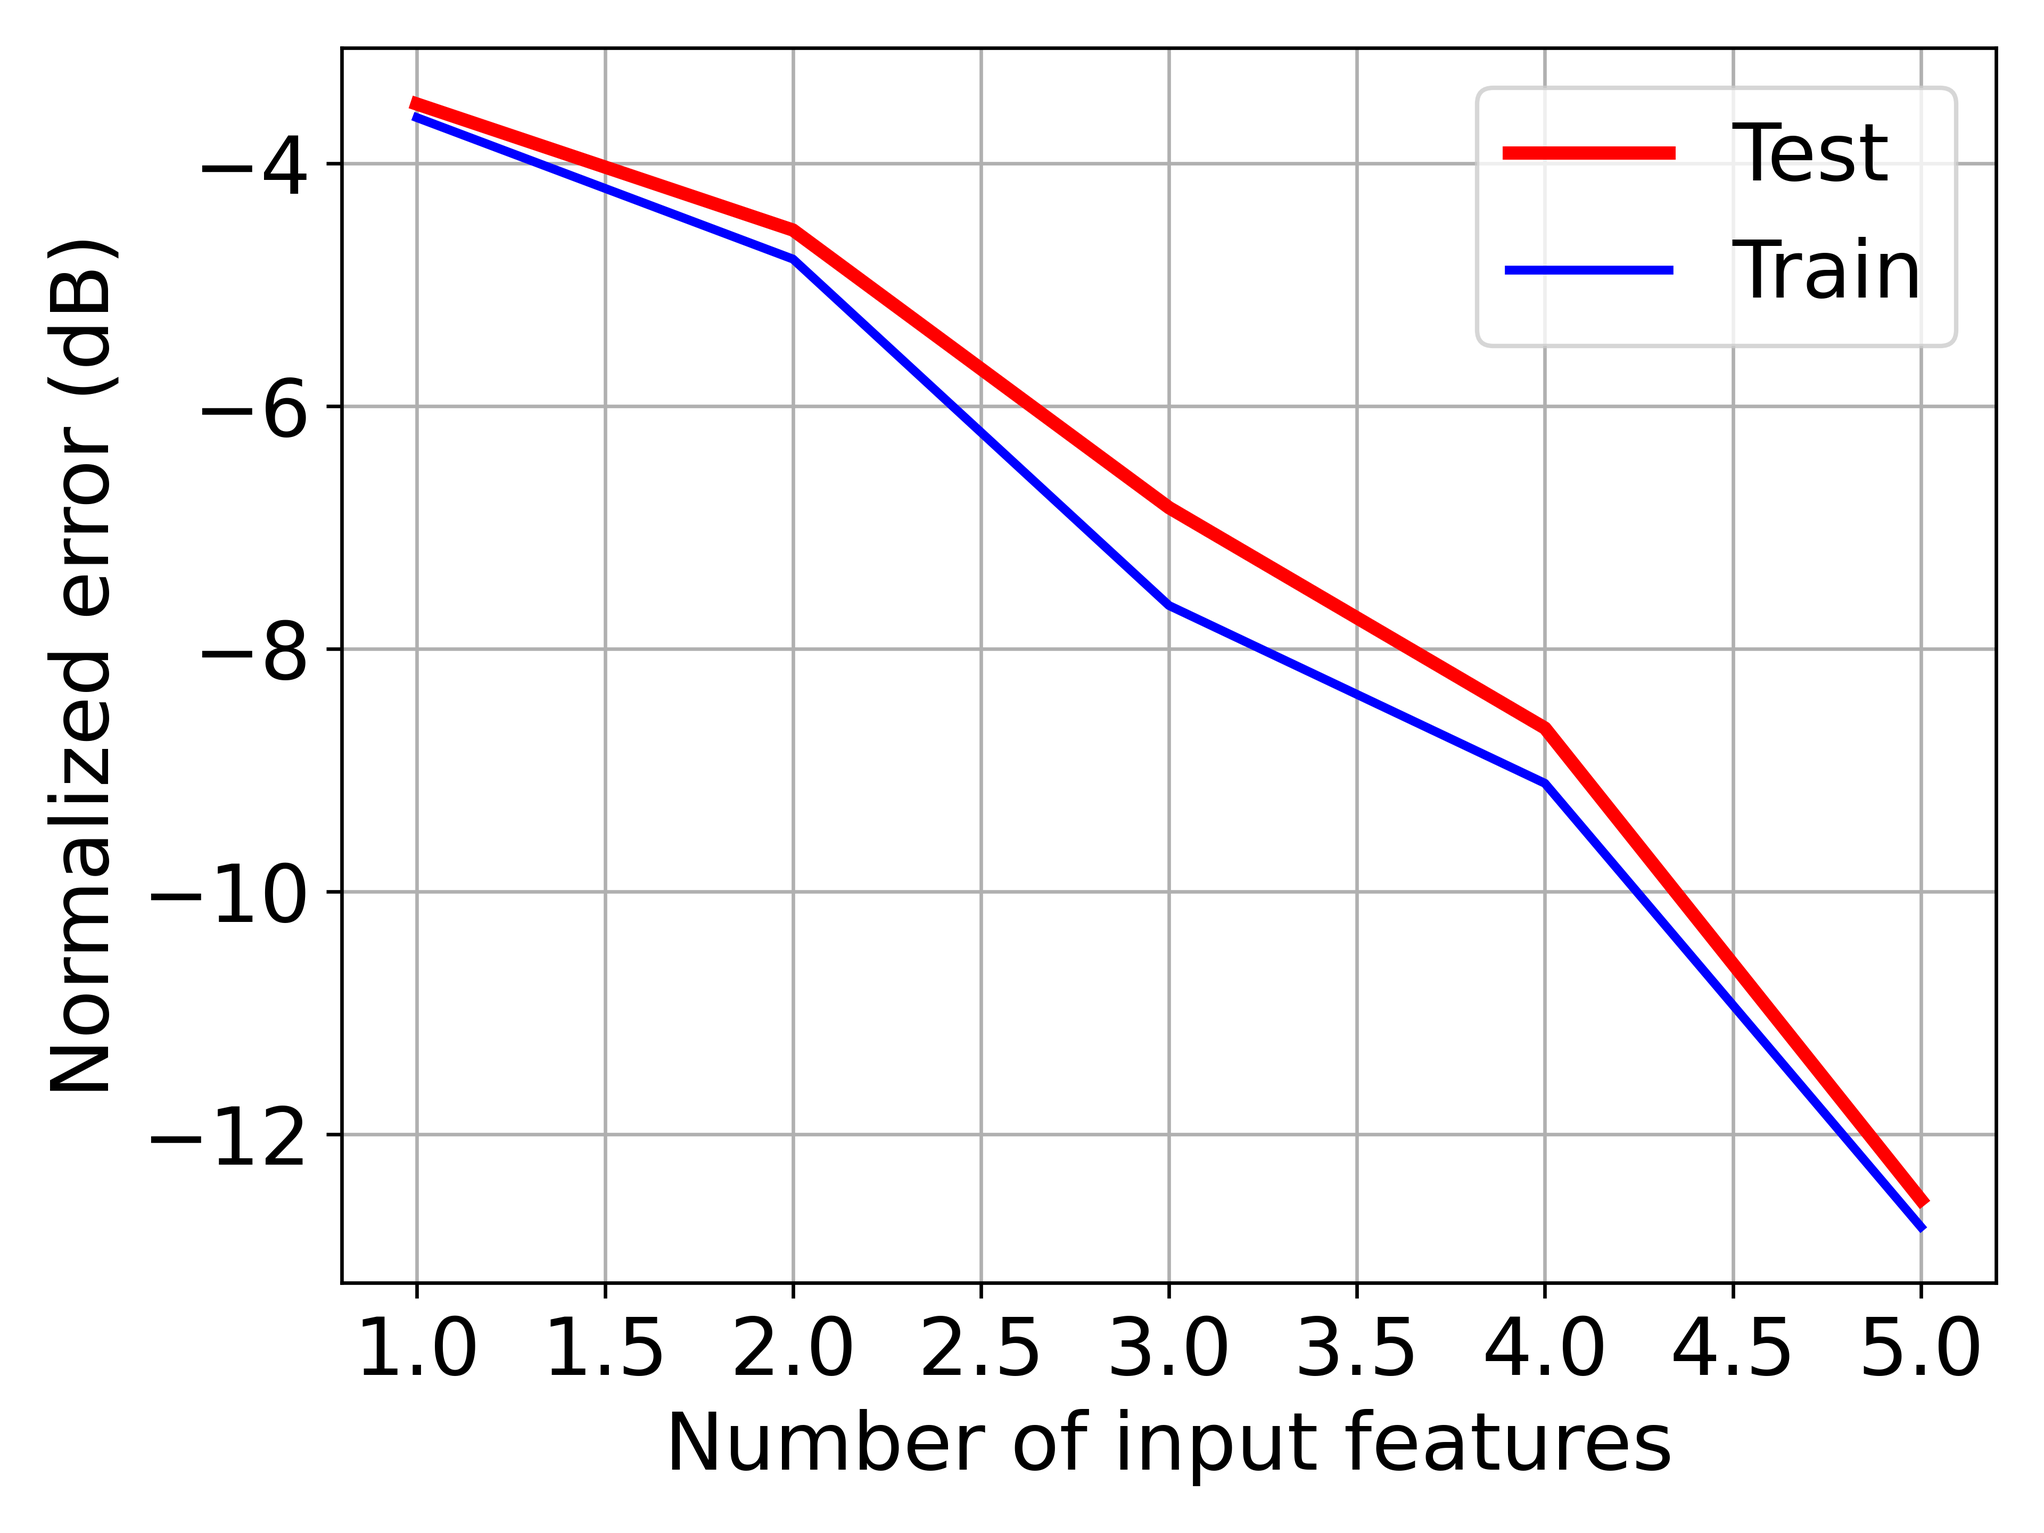
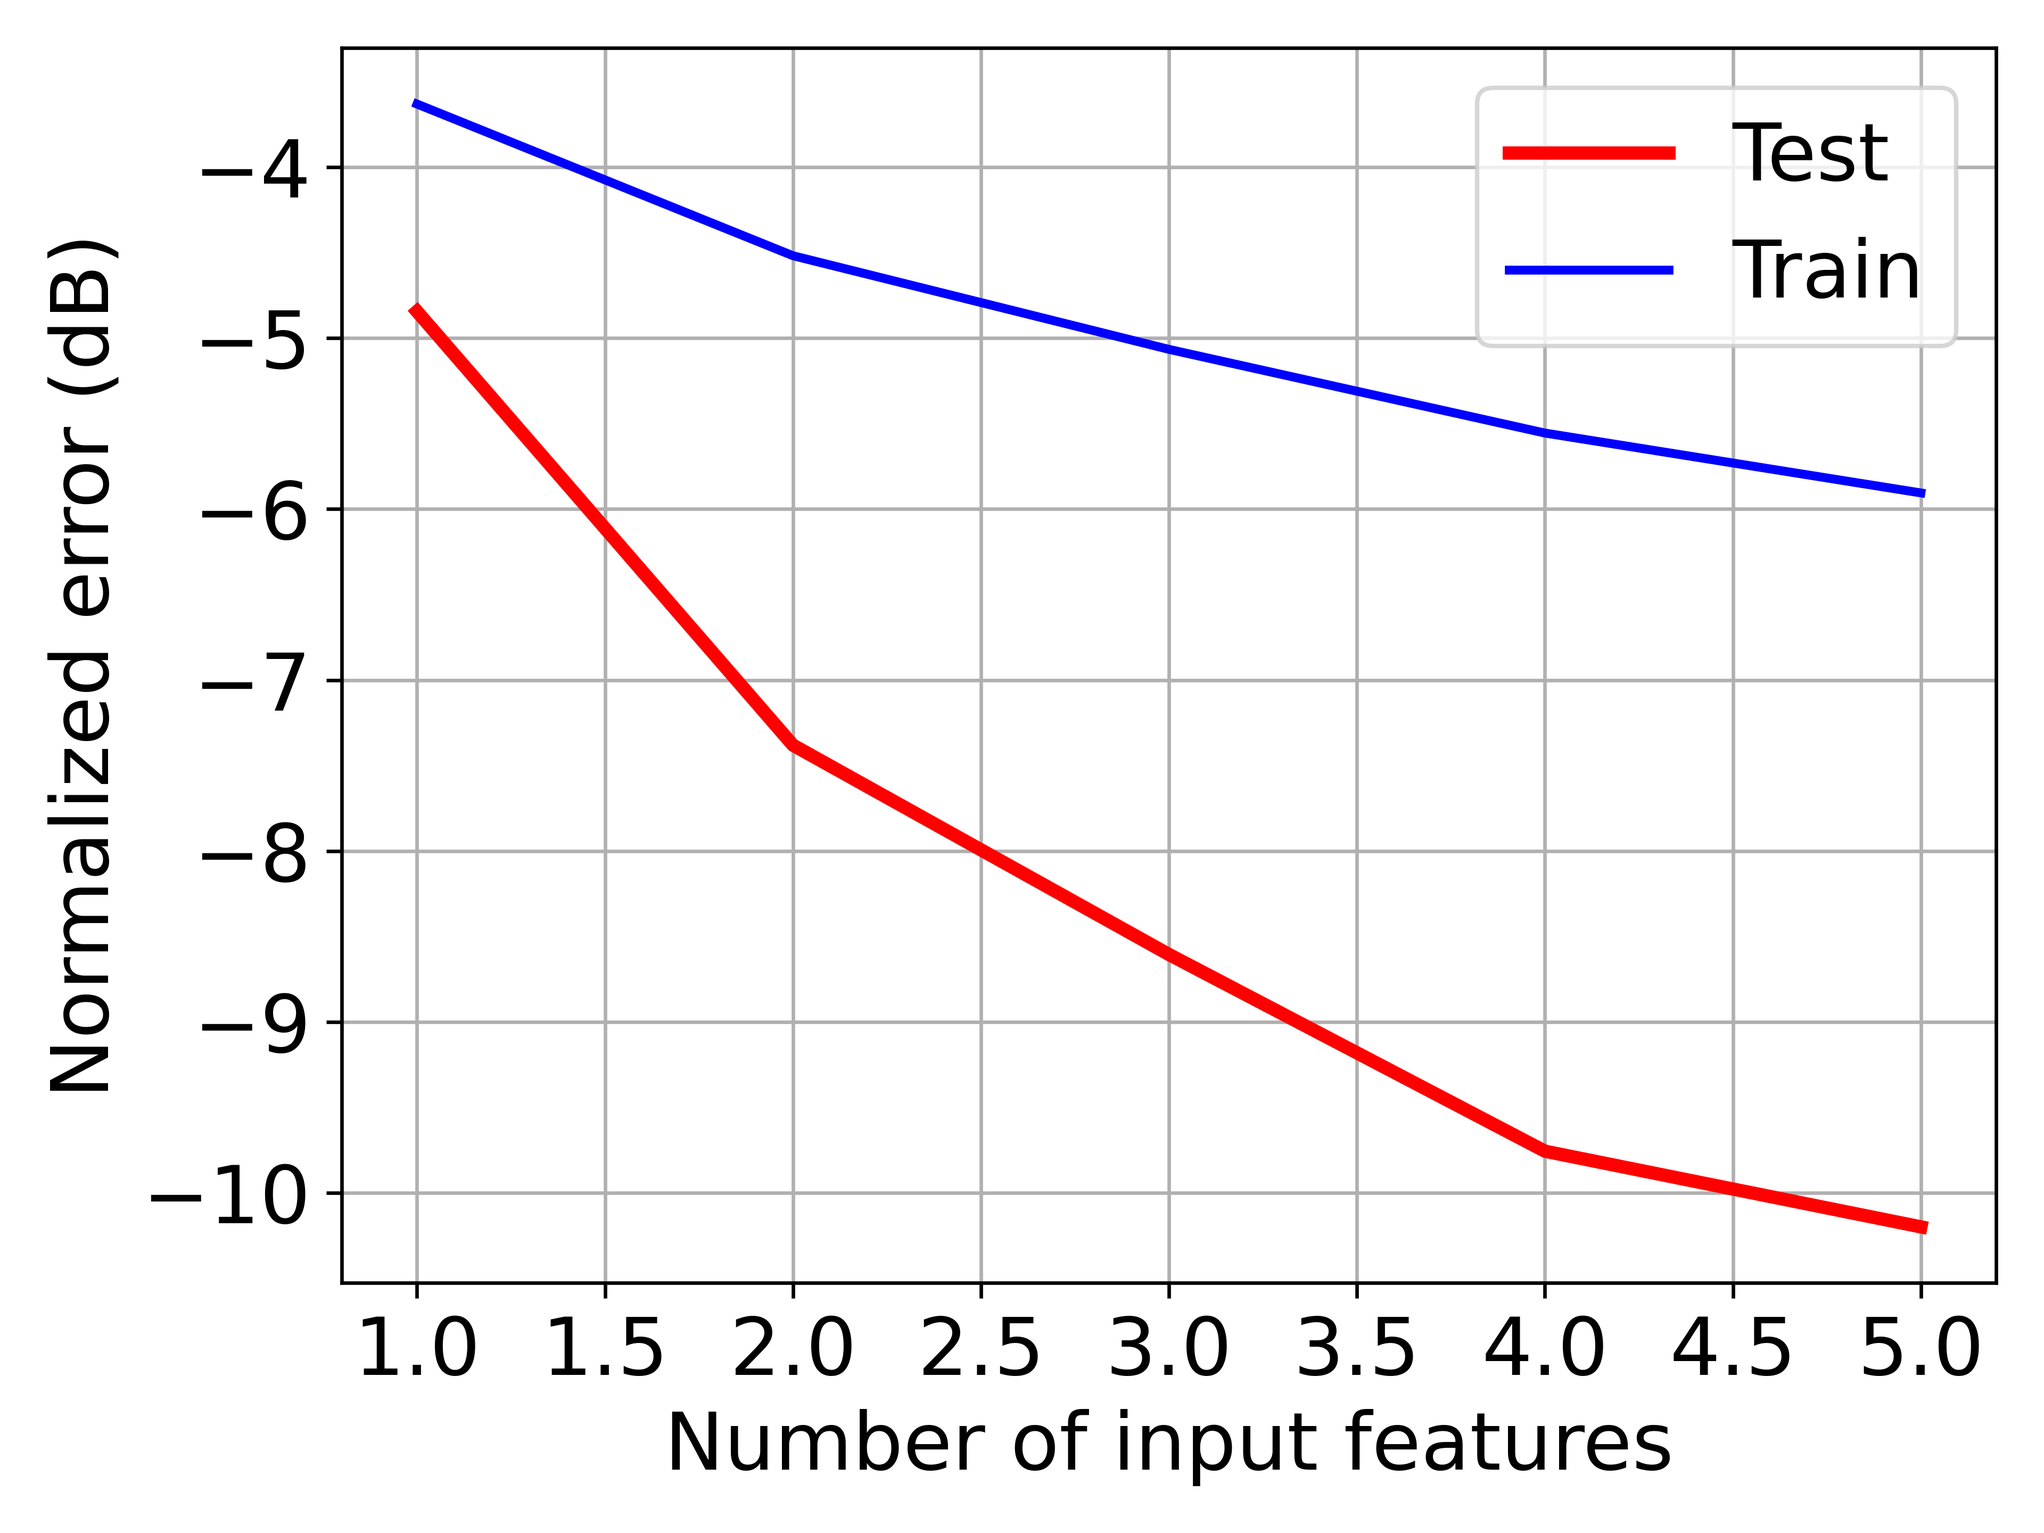
Minor

diff --git a/main2.py b/main2.py
@@ -12,7 +12,7 @@ from joblib import Parallel, delayed
 
 def define_parser():
     parser = argparse.ArgumentParser(description="Run progressive learning")
-    parser.add_argument("--data", default="Artificial", help="Input dataset available as the paper shows")
+    parser.add_argument("--data", default="Planck", help="Input dataset available as the paper shows")
     parser.add_argument("--lam", type=float, default=10**(2), help="Reguralized parameters on the least-square problem")
     parser.add_argument("--mu", type=float, default=10**(3), help="Parameter for ADMM")
     parser.add_argument("--kMax", type=int, default=100, help="Iteration number of ADMM")
@@ -56,83 +56,108 @@ def main():
     args = define_parser()
     _logger = define_logger()
     X_train, X_test, T_train, T_test = define_dataset(args)
-    _logger.info("The dataset we use is {}".format(args.data))
+    # _logger.info("The dataset we use is {}".format(args.data))
 
-    S = [0, 1,2,3,4] # 5, 6, 7, 8, 9, 10, 11, 12] # set of true relevant features
+    S = [0, 1] # 5, 6, 7, 8, 9, 10, 11, 12] # set of true relevant features
     sweep_eta = 0.01 * np.arange(1,11)
-    sweep_J = np.arange(50, 1050, 50)
+    sweep_J = np.arange(50, 500, 10)
 
-    
+    MC_Num=100
+    datasets = ["Planck", "Ohm", "Gravitation", "Artificial"]
 
-    NMP_avg_FPSR = np.array([])
-    NMP_avg_FNSR = np.array([])    
-    NMP_avg_PNME = np.array([])
-    NMP_avg_FNME = np.array([])    
-    NMP_avg_PMSE = np.array([])
-    NMP_avg_FMSE = np.array([])    
+    for data in datasets:
+        args.data = data
+        print("The dataset we use is " + data)
 
-    MC_Num=10
+        if data == "Planck":
+            args.S = [0,1]
+        elif data == "Ohm":
+            args.S = [0,1]
+        elif data == "Gravitation":
+            args.S = [0,1,2]
+        elif data == "Artificial":
+            args.S = [0,1,2,3,4]
 
-    for J in sweep_J:
-        args.eta = 0.005
-        # print("eta: "+ str(eta))
-        print("J: "+ str(J))
+        NMP_avg_FPSR = np.array([])
+        NMP_avg_FNSR = np.array([])    
+        NMP_avg_PNME = np.array([])
+        NMP_avg_FNME = np.array([])    
+        NMP_avg_PMSE = np.array([])
+        NMP_avg_FMSE = np.array([])
+        NMP_accuracy = np.array([]) 
 
-        NMP_NME_matrix = np.zeros((5, MC_Num))
-        NMP_NME_matrix_given = np.zeros((5, MC_Num))
-        NMP_FPSR = np.zeros((1, MC_Num))
-        NMP_FNSR = np.zeros((1, MC_Num))
-        NMP_PNME = np.zeros((1, MC_Num))
-        NMP_FNME = np.zeros((1, MC_Num))
-        NMP_PMSE = np.zeros((1, MC_Num))
-        NMP_FMSE = np.zeros((1, MC_Num))
+        for J in sweep_J:
+            args.eta = 0.06
+            # print("eta: "+ str(eta))
+            # print("J: "+ str(J))
 
-        for i in np.arange(0,MC_Num):
-            X_train, X_test, T_train, T_test = define_dataset(args)
-            J_train = np.random.choice(X_train.shape[1], int(round(0.9*J)), replace=False)
-            J_test = np.random.choice(X_test.shape[1], int(round(0.1*J)), replace=False)
-            # args.flag = "Not_given"
-            # S_hat, train_NME, test_NME, train_mse, test_mse  = NMP_train(_logger, X_train[:,J_train], X_test[:,:], T_train[:,J_train], T_test[:,:], args)       # set of selected features
-            args.flag = "given_order"
-            # args.best_ind = np.flip(S_hat)
-            args.best_ind = np.random.choice([0,1,2,3,4], 5, replace=False)
-            S_hat, _, test_NME_given, _, _  = NMP_train(_logger, X_train[:,J_train], X_test[:,:], T_train[:,J_train], T_test[:,:], args)
-            # S_hat, train_NME, test_NME, train_mse, test_mse  = NMP_train(X_train, X_test, T_train, T_test, args)       # set of selected features  
-            print(S_hat)
-            # print(S_hat_given)
+            NMP_NME_matrix = np.zeros((5, MC_Num))
+            NMP_NME_matrix_given = np.zeros((5, MC_Num))
+            NMP_FPSR = np.zeros((1, MC_Num))
+            NMP_FNSR = np.zeros((1, MC_Num))
+            NMP_PNME = np.zeros((1, MC_Num))
+            NMP_FNME = np.zeros((1, MC_Num))
+            NMP_PMSE = np.zeros((1, MC_Num))
+            NMP_FMSE = np.zeros((1, MC_Num))
 
-            NMP_FPSR[0,i] = FPSR(S,S_hat)
-            NMP_FNSR[0,i] = FNSR(S,S_hat)
-            # NMP_PNME[0,i] = test_NME
-            # NMP_FNME[0,i] = train_NME
-            # NMP_PMSE[0,i] = test_mse
-            # NMP_FMSE[0,i] = train_mse
+            miss_count = 0
 
-            # NMP_NME_matrix[:,i] = test_NME
-            NMP_NME_matrix_given[:,i] = test_NME_given
-            # print(NMP_NME_matrix)
-            # print(NMP_NME_matrix_given)
+            for i in np.arange(0,MC_Num):
+                X_train, X_test, T_train, T_test = define_dataset(args)
+                J_train = np.random.choice(X_train.shape[1], int(round(0.9*J)), replace=False)
+                J_test = np.random.choice(X_test.shape[1], int(round(0.1*J)), replace=False)
+                args.flag = "Not_given"
+                S_hat, train_NME, test_NME, train_mse, test_mse  = NMP_train(_logger, X_train[:,J_train], X_test[:,J_test], T_train[:,J_train], T_test[:,J_test], args)       # set of selected features
+                # S_hat, train_NME, test_NME, train_mse, test_mse  = NMP_train(_logger, X_train, X_test, T_train, T_test, args)       # set of selected features
+                # args.flag = "given_order"
+                # args.best_ind = np.flip(S_hat)
+                # args.best_ind = np.random.choice([0,1,2,3,4], 5, replace=False)
+                # S_hat, _, test_NME_given, _, _  = NMP_train(_logger, X_train[:,J_train], X_test[:,:], T_train[:,J_train], T_test[:,:], args)
+                # S_hat, train_NME, test_NME, train_mse, test_mse  = NMP_train(X_train, X_test, T_train, T_test, args)       # set of selected features  
+                # print(S_hat)
+                # print(S_hat_given)
 
+                # NMP_FPSR[0,i] = FPSR(S,S_hat)
+                NMP_FNSR[0,i] = FNSR(args.S,S_hat)
+                # NMP_PNME[0,i] = test_NME[-1]
+                # NMP_FNME[0,i] = train_NME
+                # NMP_PMSE[0,i] = test_mse
+                # NMP_FMSE[0,i] = train_mse
 
-            # print(NMP_FPSR)
-            # print(NMP_FNSR[0,:i])
-            # print(NMP_PNME)
-            # print(NMP_FNME)
-            # print(NMP_PMSE)
-            # print(NMP_FMSE)
+                # NMP_NME_matrix[:,i] = test_NME
+                # NMP_NME_matrix_given[:,i] = test_NME_given
+                # print(NMP_NME_matrix)
+                # print(NMP_NME_matrix_given)
 
-        NMP_avg_FPSR = np.append(NMP_avg_FPSR, np.mean(NMP_FPSR))
-        NMP_avg_FNSR = np.append(NMP_avg_FNSR, np.mean(NMP_FNSR))
-        # NMP_avg_PNME = np.append(NMP_avg_PNME, np.mean(NMP_PNME))
-        # NMP_avg_FNME = np.append(NMP_avg_FNME, np.mean(NMP_FNME))
-        # NMP_avg_PMSE = np.append(NMP_avg_PMSE, np.mean(NMP_PMSE))
-        # NMP_avg_FMSE = np.append(NMP_avg_FMSE, np.mean(NMP_FMSE))
+                # print(NMP_FPSR)
+                # print(NMP_FNSR)
+                # print(NMP_PNME)
+                # print(NMP_FNME)
+                # print(NMP_PMSE)
+                # print(NMP_FMSE)
 
-        # NMP_NME_avg = np.mean(NMP_NME_matrix, axis = 1)
-        NMP_NME_avg_given = np.mean(NMP_NME_matrix_given, axis = 1)
-        # print(NMP_NME_avg)
-        print(NMP_NME_avg_given)
+                if len(args.S) == len(S_hat):
+                    diff_ind = np.setdiff1d(args.S, S_hat, assume_unique=True)
+                    if len(diff_ind) > 0:
+                        miss_count = miss_count + 1
+                        # print(S_hat)
+                        # print("For J = "+str(J)+" -> Miss count = "+str(miss_count)+" / "+str(i+1))
 
+            accuracy = (1 - miss_count/MC_Num) * 100
+            NMP_accuracy = np.append(NMP_accuracy, accuracy)
+            
+
+            # NMP_avg_FPSR = np.append(NMP_avg_FPSR, np.mean(NMP_FPSR))
+            NMP_avg_FNSR = np.append(NMP_avg_FNSR, np.mean(NMP_FNSR))
+            # NMP_avg_PNME = np.append(NMP_avg_PNME, np.mean(NMP_PNME))
+            # NMP_avg_FNME = np.append(NMP_avg_FNME, np.mean(NMP_FNME))
+            # NMP_avg_PMSE = np.append(NMP_avg_PMSE, np.mean(NMP_PMSE))
+            # NMP_avg_FMSE = np.append(NMP_avg_FMSE, np.mean(NMP_FMSE))
+
+            # NMP_NME_avg = np.mean(NMP_NME_matrix, axis = 1)
+            # NMP_NME_avg_given = np.mean(NMP_NME_matrix_given, axis = 1)
+            # print(NMP_NME_avg)
+            # print(NMP_NME_avg_given)
 
         # print("Average FPSR of NMP: " + str(NMP_avg_FPSR))
         print("Average FNSR of NMP: " + str(NMP_avg_FNSR))
@@ -141,23 +166,25 @@ def main():
         # print("Average PMSE of NMP: " + str(NMP_avg_PMSE))
         # print("Average FMSE of NMP: " + str(NMP_avg_FMSE))
 
-    FontSize = 18
-    result_path = "./results/"
-    csfont = {'fontname':'sans-serif'}
-    plt.subplots()
-    plt.plot(sweep_J, NMP_avg_FPSR, 'r-', label="FPSR", linewidth=3)
-    plt.plot(sweep_J, NMP_avg_FNSR, 'b-', label="FNSR", linewidth=2)
-    plt.legend(loc='best', fontsize=FontSize)
-    plt.grid()
-    # plt.xlabel("Stopping threshold (eta)",fontdict=csfont, fontsize=FontSize)
-    plt.xlabel("Number of samples (J)",fontdict=csfont, fontsize=FontSize)
-    plt.ylabel("False selection rate",fontdict=csfont, fontsize=FontSize)
-    # plt.title(data+", SSFNN", loc='center', fontsize=FontSize)
-    plt.xticks(fontsize=FontSize)
-    plt.yticks(fontsize=FontSize)
-    plt.tight_layout()
-    plt.savefig(result_path +"FPSR_&_FNSR_vs_J"+".png",dpi=600)
-    plt.close()
+        print("Average dACC of NMP: " + str(NMP_accuracy))
+
+    # FontSize = 18
+    # result_path = "./results/"
+    # csfont = {'fontname':'sans-serif'}
+    # plt.subplots()
+    # plt.plot(sweep_J, NMP_avg_FPSR, 'r-', label="FPSR", linewidth=3)
+    # plt.plot(sweep_J, NMP_avg_FNSR, 'b-', label="FNSR", linewidth=2)
+    # plt.legend(loc='best', fontsize=FontSize)
+    # plt.grid()
+    # # plt.xlabel("Stopping threshold (eta)",fontdict=csfont, fontsize=FontSize)
+    # plt.xlabel("Number of samples (J)",fontdict=csfont, fontsize=FontSize)
+    # plt.ylabel("False selection rate",fontdict=csfont, fontsize=FontSize)
+    # # plt.title(data+", SSFNN", loc='center', fontsize=FontSize)
+    # plt.xticks(fontsize=FontSize)
+    # plt.yticks(fontsize=FontSize)
+    # plt.tight_layout()
+    # plt.savefig(result_path +"FPSR_&_FNSR_vs_J"+".png",dpi=600)
+    # plt.close()
 
     
     # test_NME_ture = [ -4.42711219,  -7.09753944,  -9.24551936, -10.89538164, -12.12525705]

diff --git a/NMP.py b/NMP.py
@@ -183,8 +183,8 @@ def Err_vs_feat_window(X_train, X_test, T_train, T_test, args):
                 X_tr, X_ts = return_patched_data(X_train, X_test, row, np.append(sorted_ind_col,col), radius=radius, rows=28, cols=28)
             else:
                 X_tr, X_ts = return_patched_data(X_train, X_test, row, col, radius=radius, rows=28, cols=28)
-            # train_nme, test_nme, train_mse, test_mse, train_acc, test_acc = SSFN( X_tr, X_ts, T_train, T_test, SSFN_hparameters)
-            train_nme, test_nme, train_mse, test_mse, train_acc, test_acc = my_CNN( X_tr, X_ts, T_train, T_test)
+            train_nme, test_nme, train_mse, test_mse, train_acc, test_acc = SSFN( X_tr, X_ts, T_train, T_test, SSFN_hparameters)
+            # train_nme, test_nme, train_mse, test_mse, train_acc, test_acc = my_CNN( X_tr, X_ts, T_train, T_test)
             train_nme_array = np.append(train_nme_array, train_nme)
             test_nme_array = np.append(test_nme_array, test_nme)
             train_mse_array = np.append(train_mse_array, train_mse)
@@ -324,14 +324,7 @@ def Err_vs_feat(X_train, X_test, T_train, T_test, args):
 
     while len(search_ind) > 0:
 
-        if len(test_nme_sorted) > 1:
-            # break
-            if len(sorted_ind) == 5:
-                break
-            # if np.abs(test_nme_array[i] - test_nme_sorted[-1])/np.abs(test_nme_sorted[-1]) < eta or np.abs(test_nme_array[i]) <= np.abs(test_nme_sorted[-1]):
-            # if np.abs(test_nme_array[i] - test_nme_sorted[-1])/np.abs(test_nme_sorted[-1]) > eta and np.abs(test_nme_array[i]) <= np.abs(test_nme_sorted[-1]):
-            #     break
-                # pass
+        
 
         train_nme_array = np.array([])
         test_nme_array = np.array([])
@@ -364,6 +357,14 @@ def Err_vs_feat(X_train, X_test, T_train, T_test, args):
             # i = np.where(search_ind == best_ind_reversed[k])
             # i = np.where(search_ind == best_ind_random[k])
             
+        if len(test_nme_sorted) > 1:
+            # break
+            if len(sorted_ind) == len(args.S):
+                break
+            if np.abs(test_nme_array[i] - test_nme_sorted[-1])/np.abs(test_nme_sorted[-1]) < eta or np.abs(test_nme_array[i]) <= np.abs(test_nme_sorted[-1]):
+            # if np.abs(test_nme_array[i] - test_nme_sorted[-1])/np.abs(test_nme_sorted[-1]) > eta and np.abs(test_nme_array[i]) <= np.abs(test_nme_sorted[-1]):
+                # break
+                pass
 
         best_ind = search_ind[i]
         train_nme_sorted = np.append(train_nme_sorted, train_nme_array[i])
@@ -405,21 +406,21 @@ def Err_vs_feat(X_train, X_test, T_train, T_test, args):
     plt.savefig(result_path +"Err_vs_index_J"+str(J)+"_L"+str(LayerNum)+"_node"+str(NodeNum)+"_"+data+"_SSFN.png",dpi=600)
     plt.close()
 
-    if data=="MNIST":
-        csfont = {'fontname':'sans-serif'}
-        plt.subplots()
-        plt.plot(np.arange(1,P+1), test_acc_sorted, 'r-', label="Test Accuracy", linewidth=2)
-        plt.plot(np.arange(1,P+1), train_acc_sorted, 'b-', label="Train Accuracy", linewidth=2)
-        plt.legend(loc='best')
-        plt.grid()
-        plt.xlabel("Number of input features",fontdict=csfont, fontsize=FontSize)
-        plt.ylabel("Classification accuracy",fontdict=csfont, fontsize=FontSize)
-        # plt.title(data+", SSFN", loc='center')
-        plt.xticks(fontsize=FontSize)
-        plt.yticks(fontsize=FontSize)
-        plt.tight_layout()
-        plt.savefig(result_path +"Acc_vs_index_J"+str(J)+"_L"+str(LayerNum)+"_node"+str(NodeNum)+"_"+data+".png",dpi=600)
-        plt.close()
+    # if data=="MNIST":
+    #     csfont = {'fontname':'sans-serif'}
+    #     plt.subplots()
+    #     plt.plot(np.arange(1,P+1), test_acc_sorted, 'r-', label="Test Accuracy", linewidth=2)
+    #     plt.plot(np.arange(1,P+1), train_acc_sorted, 'b-', label="Train Accuracy", linewidth=2)
+    #     plt.legend(loc='best')
+    #     plt.grid()
+    #     plt.xlabel("Number of input features",fontdict=csfont, fontsize=FontSize)
+    #     plt.ylabel("Classification accuracy",fontdict=csfont, fontsize=FontSize)
+    #     # plt.title(data+", SSFN", loc='center')
+    #     plt.xticks(fontsize=FontSize)
+    #     plt.yticks(fontsize=FontSize)
+    #     plt.tight_layout()
+    #     plt.savefig(result_path +"Acc_vs_index_J"+str(J)+"_L"+str(LayerNum)+"_node"+str(NodeNum)+"_"+data+".png",dpi=600)
+    #     plt.close()
 
     return sorted_ind, train_nme_sorted[-1], test_nme_sorted, train_mse_sorted[-1], test_mse_sorted[-1]
 

diff --git a/load_dataset.py b/load_dataset.py
@@ -189,7 +189,7 @@ def prepare_Airfoil():
     X_train = (X_train - X_train.mean(axis=0)) / np.std(X_train, axis=0)
     X_test = (X_test - X_test.mean(axis=0)) / np.std(X_test, axis=0)
 
-    fExtra=500
+    fExtra=10
     X_train = np.concatenate((X_train, np.random.randn(X_train.shape[0],fExtra)), axis=1)
     X_test = np.concatenate((X_test, np.random.randn(X_test.shape[0],fExtra)), axis=1)
     

diff --git a/MLP.py b/MLP.py
@@ -18,7 +18,7 @@ def MLP(X_train, X_test, T_train, T_test, data):
     Q= T_train.shape[0]
     data = data
     learning_rate = 10**(-6)
-    Epoch_num = 10
+    Epoch_num = 100
     batchSize = 32
     Layer_Num = 1
 
